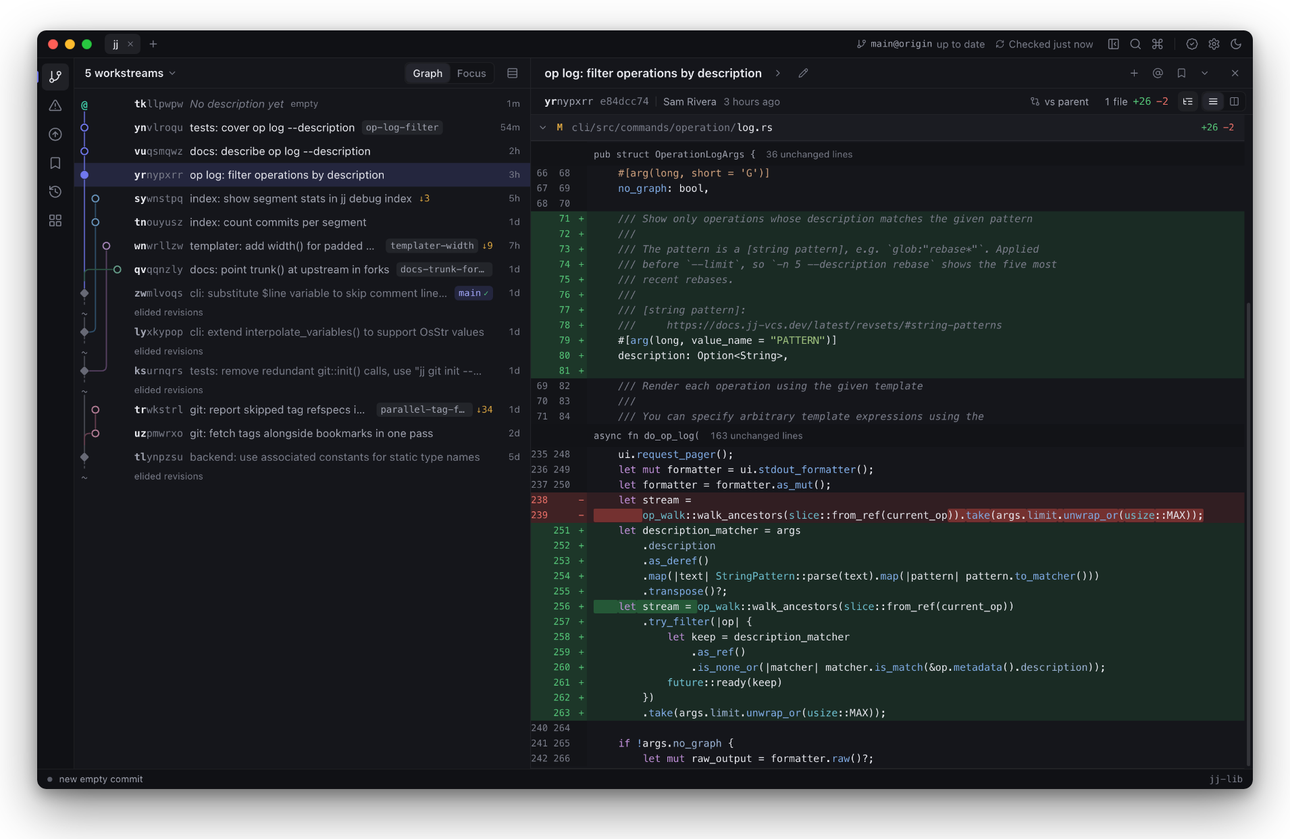
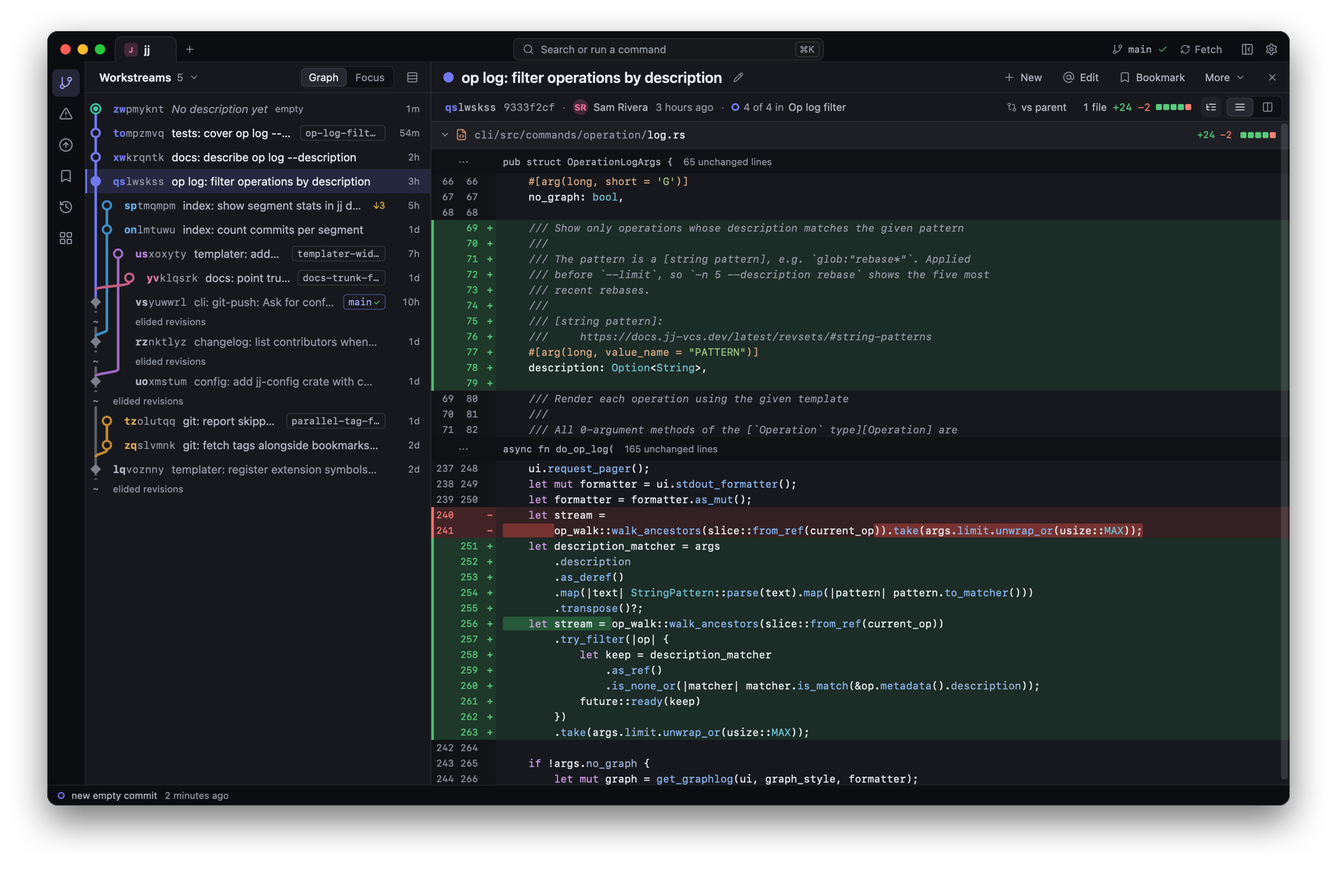
Jiji 0.5.0

diff --git a/docs/parity-tracker.md b/docs/parity-tracker.md
@@ -10,10 +10,10 @@ second added items 29–34, T4 and E7. Item 35 was seen during the audit and cam
 
 | Group | Done | Total |
 | --- | --- | --- |
-| Release blockers (1–6) | 3 | 6 |
+| Release blockers (1–6) | 4 | 6 |
 | Other gaps (7–38) | 23 | 32 |
 | Decisions (D1–D4) | 1 | 4 |
-| Tooling and tests (T1–T4) | 3 | 4 |
+| Tooling and tests (T1–T4) | 4 | 4 |
 | Sign-off checks (E1–E7) | 0 | 7 |
 
 An item is done when its status is `verified` or `accepted`.
@@ -57,7 +57,7 @@ start elsewhere. "Old:" paths are in the last Tauri tree, under
 | 3 | verified, `xwouqzmu`: tests `host::update::tests::an_untouched_staged_update_installs` and `a_staged_update_changed_after_verifying_never_installs` (throwaway key, scratch bundle). Restart reads the archive back, verifies it again and unpacks those bytes through tar's stdin. A changed archive is deleted, the installed app stays, the user reads "the downloaded update was changed or removed after it was verified. Your installed Jiji is unchanged, and the update will download again", and a fresh download starts. A signed bundle restarting through the real feed stays with E1 | **The updater can install bytes it did not verify.** The download is verified, written to disk, and reopened by path at Restart with no second check. Tauri held the verified bytes in memory until install. | Changing the staged archive between download and Restart leaves the installed app intact and tells the user why. An untouched signed archive still installs. | `host/update.rs` `download`, `install_and_relaunch` | code |
 | 4 | fixed, `ysykovvp`: tests `ui::focus::tests::tab_walks_the_controls_and_space_and_return_press_the_one_it_is_on`, `shell::tests::settings_open_change_and_close_from_the_keyboard` (Shift-Tab from the section back through the rail to Settings, Space opens it, Tab enters at Appearance, Space picks Light, Tab and Shift-Tab come round inside the panel, Escape closes it and the keys are back on Settings), `shell::tests::a_click_presses_a_control_without_taking_the_keys`, `ui::focus::tests::a_row_tab_reaches_below_the_fold_scrolls_into_view`, `views::workbench::tests::the_file_tree_is_one_stop_its_keys_travel_and_fold`, `an_annotate_origin_is_followed_from_the_keyboard`, `a_split_is_made_from_the_keyboard_alone` (More by Space, its arrows to Split, a file checked by Space, Return on Split: the split runs and the keys are back on More), `typing_in_a_field_types_and_tab_leaves_it`; each fails with its fix removed. Every control in `ui/` and every bespoke one in the views is a stop (`ui::Tabbable`): Tab and Shift-Tab walk the window in paint order (the command field now precedes the bar's controls, so the bar reads left to right), Space and Return press on the release (GPUI's keyboard click), and a click leaves the keys where they were, as AppKit's buttons do, so the graph keeps j and k. The ring is two pixels of accent inside the control's edge (an inset shadow: nothing moves), for keyboard focus only; a filled button rings in its ink with the accent's halo outside, a lone checkbox takes the halo. A list is one stop with arrows: the graph (selected row ringed), the file tree (cursor ringed), annotate's origins (↑/↓ from run to run, Return or Space follows; mouse-only before, and better than the old one tab stop per run in a windowed list), a tray's destinations (Compare's too, which no key could pick). Popovers and menus (Settings, registration, the view menu, More, Files, Publish's connection and More) take focus, hold Tab while open (menus answer ↑/↓), close on Escape, and give focus back to the trigger, or to wherever it was when a click opened them; trays, the palette and history search give it back too, and a control that vanishes (a deleted row, a closed panel) hands it to the nearest thing still on screen. Return on a control inside a tray presses that control (it confirmed the tray). Hover-only controls (bookmark, operation and inspector row actions, a tab's close, a recent repo's remove) show while Tab is among them; the bookmark ones were `invisible`, which GPUI never paints, so no key reached them. A row of stops in a scroller comes into view as Tab reaches it (`ui::focus::FocusRow`; GPUI scrolls nothing to focus). The diff is a stop of its own (Space, the page keys, ⌘C), ringed around its edge. A scripted `key` now sends the release a keyboard sends. Looked at: headless walks of the whole window, the order read from the accessibility dump, and shots of the ring on a button, a segment, a tab, a graph row, a tree row, a divider, the diff, a checklist row and a primary button, in paper and midnight. Remains for the owner: Full Keyboard Access and VoiceOver in the real app (E5) | **Keyboard-only use of ordinary controls.** Buttons, segmented controls and checkboxes answer the pointer only. There is no Tab or Shift-Tab path through them, no focus ring, and no Space or Return activation. | With Full Keyboard Access on and the pointer parked: open Settings and change a setting, enter the file tree, follow an annotate origin, and confirm a split. Order in both directions, visible focus, activation, Escape and where focus returns are all right. | `ui/button.rs`. Old: `ui/Button.svelte`, `diff/FileTree.svelte`, `diff/AnnotatePane.svelte` | code |
 | 5 | fixed, `ysykovvp`: tests `ui::button::tests::controls_tell_assistive_technology_what_they_are`, `ui::input::tests::a_field_tells_its_name_value_and_placeholder_and_keeps_a_key_to_itself`, `ui::a11y::tests::a_tooltip_names_its_control_apart_from_its_shortcut`, `views::workbench::graph::tests::a_row_says_what_a_glance_at_it_takes_in`. GPUI's test windows never build an accessibility tree, so the Done-when cases were read off the real one: a headless run's new `a11y=` step turns accessibility on the way VoiceOver's first question does and writes the tree GPUI hands AccessKit. Mock backend: two repositories open give the tab list "Open repositories" with tabs "mock" and "mock2", the second selected, each holding "Close …"; folding `src/lib/styles` from the keys turns its tree item (level 2, the active descendant while the tree has focus) from expanded to collapsed and back, its file reappearing at level 3; a history search for "viewport" gives the dialog "Search history", its field with value and placeholder, the list box "Matching changes" with three options and the first selected, the polite status "3 matching changes · searched 11 changes", and the highlight spoken as "…, 1 of 3", then "2 of 3" after ↓; New failing once `.jj` was hidden gives an assertive alert carrying jj's message. Each `role=` and `aria-` of the old components has its counterpart: dialogs and alert dialogs (palette and search modal, Settings, registration, view menu, every tray, operation confirms, the GitHub connection); tab lists (the repositories; the rail as a vertical tab list whose section is selected, as AccessKit's macOS adapter maps no aria-current); the tree with levels, expanded and selected; list boxes and options with selected (palette, search, graph rows (multiselectable) named by title, short id, marks and bookmarks, tray destinations, comparison presets, stacks); groups for a bookmark's row and an operation's, named for what their buttons act on; menus and items (More, Files, Publish's More, the context menu, with disabled and has-popup); a radio group for every segmented control and choice list (theme, palettes, editors, terminals, lenses); checkboxes, mixed for a partly checked file; splitters with value, limits and orientation; pressed and expanded states; icon-only buttons named by their tooltips, shortcuts apart; fields with name, value and placeholder (a key never read out); headings for the page and change titles; live regions: an alert for every inline error and the status line's, a status for search counts, the find bar's position and a mutation just run. Where focus stays in a field (palette, search) or the list never takes it (the context menu, which keeps a field's selection under it), the highlight is a polite live region: GPUI honours an active descendant only inside the focused element. Not exposed: the diff's lines and headers (one painted document, named with its file count) and the graph's rails. Remains for the owner: VoiceOver itself (E5), what it says and that it reads the live regions | **Screen readers.** The old interface named its dialogs, tabs, trees and list options, exposed selected and expanded states, and announced search results and errors. The GPUI views set no accessibility roles, so nothing is exposed. | VoiceOver names both repository tabs and says which is selected, announces a directory expanding, reads search results, and speaks a failed action. Name, role and state are right at each step. | `shell/topbar.rs` (tabs), `views/search.rs`. Old: `shell/TabBar.svelte`, `search/SearchOverlay.svelte` | code |
-| 6 | open, for the owner: the floor is now macOS 12.0 for both slices (`ynqstzor`). This GPUI reads Low Power Mode as the app starts (`isLowPowerModeEnabled`, with `NSProcessInfoPowerStateDidChangeNotification` bound at launch, not weakly: both macOS 12.0 in Apple's headers) and links UniformTypeIdentifiers (macOS 11.0). Nothing else turned up: every symbol the binary binds is older, a scan of the SDK names Apple marks macOS 12 or later found only calls GPUI guards, and what the app runs (`tar`, `ditto`, `open`, `osascript`, the Keychain) is far older. Not tried on a Mac running 11. The old 11.0 would have let a Mac on 11 open a build that cannot start there. `Info.plist` says 12.0, `scripts/bundle.sh` builds both slices for what the plist says (`MACOSX_DEPLOYMENT_TARGET`), and the workflow checks each slice's `LC_BUILD_VERSION` against it; a local bundle's arm64 slice reads `minos 12.0`, the Intel slice's is for E7 (no x86_64 target here). Stranded through the shared feed: Intel Macs that cannot run 12 (10.13–11), and any Mac still on 11. Their 0.4.1 installs the GPUI build, the system then refuses to open it, and no working Jiji is left. Options: (a) ship and say so in the notes (reinstall 0.4.1 from Releases); (b) first a last Tauri release whose updater skips a release the system cannot run (the manifest naming the floor), left up long enough to reach most installs; (c) a new feed URL for GPUI builds, the old `latest.json` left on that bridge release; (d) a GPUI patch that looks the notification up at run time and asks before reading Low Power Mode brings it to 11.0 (worth offering upstream); below 11 is not realistic. Whichever: the GPUI updater could also read the floor from the manifest and skip a release it cannot run, so a later bump strands no one | **Intel Macs on macOS 10.13–10.15.** The 0.4.1 bundle declares 10.13; the GPUI bundle declares 11.0 for everyone. Through the shared update feed, an Intel user on an older system can be offered an app the system refuses to launch. | The floor is decided and written down. Either the bundle and both slices run on the old floor, or a client below the new floor is never offered the update and keeps a working app. Checked on the oldest supported Intel system through the real feed. | `crates/jiji-desktop/resources/Info.plist`, `.github/workflows/release-macos.yml` (manifest lists both architectures) | code |
+| 6 | accepted (owner, 2026-11-25): Jiji supports the current macOS release and the one before it, so older systems are out of scope. The bundle keeps declaring 12.0, the least this GPUI can start on, so an existing install on an in-between system that auto-updates still gets an app that opens. Background: the floor is now macOS 12.0 for both slices (`ynqstzor`). This GPUI reads Low Power Mode as the app starts (`isLowPowerModeEnabled`, with `NSProcessInfoPowerStateDidChangeNotification` bound at launch, not weakly: both macOS 12.0 in Apple's headers) and links UniformTypeIdentifiers (macOS 11.0). Nothing else turned up: every symbol the binary binds is older, a scan of the SDK names Apple marks macOS 12 or later found only calls GPUI guards, and what the app runs (`tar`, `ditto`, `open`, `osascript`, the Keychain) is far older. Not tried on a Mac running 11. The old 11.0 would have let a Mac on 11 open a build that cannot start there. `Info.plist` says 12.0, `scripts/bundle.sh` builds both slices for what the plist says (`MACOSX_DEPLOYMENT_TARGET`), and the workflow checks each slice's `LC_BUILD_VERSION` against it; a local universal bundle reads `minos 12.0` for both slices (checked 2026-11-26), and both run their command line here, the Intel one under Rosetta. Stranded through the shared feed: Intel Macs that cannot run 12 (10.13–11), and any Mac still on 11. Their 0.4.1 installs the GPUI build, the system then refuses to open it, and no working Jiji is left. Options: (a) ship and say so in the notes (reinstall 0.4.1 from Releases); (b) first a last Tauri release whose updater skips a release the system cannot run (the manifest naming the floor), left up long enough to reach most installs; (c) a new feed URL for GPUI builds, the old `latest.json` left on that bridge release; (d) a GPUI patch that looks the notification up at run time and asks before reading Low Power Mode brings it to 11.0 (worth offering upstream); below 11 is not realistic. Whichever: the GPUI updater could also read the floor from the manifest and skip a release it cannot run, so a later bump strands no one | **Intel Macs on macOS 10.13–10.15.** The 0.4.1 bundle declares 10.13; the GPUI bundle declares 11.0 for everyone. Through the shared update feed, an Intel user on an older system can be offered an app the system refuses to launch. | The floor is decided and written down. Either the bundle and both slices run on the old floor, or a client below the new floor is never offered the update and keeps a working app. Checked on the oldest supported Intel system through the real feed. | `crates/jiji-desktop/resources/Info.plist`, `.github/workflows/release-macos.yml` (manifest lists both architectures) | code |
 
 ### What item 2 must carry over
 
@@ -153,7 +153,7 @@ reason, or to `open` and move the row into the gaps.
 | # | Status | What is lost | Done when |
 | --- | --- | --- | --- |
 | T1 | verified, `mzwxssuu`: the host takes its forge as it takes its backend (`host::forge::Forge`, with `ForgeClient` for what it asks once it holds a token): GitHub with the user's token in the app, `Offline` for `JIJI_OFFLINE=1`, and in tests `testing::forge::Fixture`, GitHub as a test captured it — pull requests with their review, checks and draft state, what each one's merge button says, the repository's merge methods, auto-merge and merge queue, failed workflow runs and stack comments — which records every write it is asked for. Every Publish, review, land, ship and auto-land call goes through that one seam, and the real planning and execution engines run over the mock repository and the captured state: plans are derived, not canned (the old harness took a captured LandPlan), so a test sees the plan a user would. Tests in `views::publish::tests`: `the_current_stack_opens_on_its_land_plan_and_local_work_on_its_publish_plan` (stack selection), `a_stack_that_differs_from_github_waits_to_be_published`, `the_merge_method_bypass_and_drafts_shape_the_land_plan` (a method the repo refuses blocks, failing checks block until bypass, a draft is marked ready just before it merges), `a_plan_that_answers_late_never_lands_on_the_stack_chosen_since`, `failed_ci_is_sent_back_to_work_and_the_badges_follow` (re-run, then the refresh reads the checks running), `a_pull_request_is_fetched_for_review_by_its_row_or_its_number`, `publishing_opens_the_pull_requests_the_plan_named_and_keeps_the_result`, `landing_merges_on_github_then_tidies_the_stack_here` (merge, rebase, retarget, cleanup on both sides), `shipping_moves_trunk_to_the_stack_and_pushes_it`, `auto_land_starts_stops_resumes_and_is_dismissed` (the job hands #41 to auto-merge, stops, and its dismissed record leaves the disk), `an_interrupted_job_resumes_with_its_saved_rules`, `the_pull_requests_page_leaves_the_stack_and_its_plan_where_they_were`; the late-response test fails with the plan's sequence guard removed. The mock backend now models jj's deletion of a tracked bookmark (its remote counterpart stays, remote-only, until a push carries the deletion out), without which landing's cleanup failed on it. `dump_diff` is not brought back: `cargo run -p jiji-core --example snapshot -- <repo> <change> --diff` prints a change's diff | **Offline interface fixtures.** `scripts/visual-harness` replayed captured repositories and diffs, seeded pull requests and landing plans, and chosen error states. `dump_diff` printed a real change's refined diff. GPUI has headless screenshots, scripted input and a mock repository, but its tests see no forge and nothing replays captured GitHub data. | The outcomes the harness exercised have GPUI tests or scripted fixtures: stack selection, plan options, late responses, CI, auto-land. |
-| T2 | fixed, `mzwxssuu`: `scripts/release-preflight [tag]`, documented in `RELEASING.md`: the tag against the workspace version and whether it already tags another commit; the version's changelog section; the update feed against the repository `origin` names; both Rust targets; the bundle built as the workflow builds it (universal, or this Mac's slice with a blocker when a target is missing), its `Info.plist` linted and naming the version, each slice's floor against the bundle's, `codesign --verify --deep --strict`; then, with `gh` signed in, every secret name the workflow uses (read from the workflow itself, so the list cannot drift; a missing `TAURI_SIGNING_PRIVATE_KEY_PASSWORD` warns, since an updater key may have none) and the repository's visibility. It publishes, tags and changes nothing. Run here with a scratch target: it caught this checkout's two real mistakes (0.4.1 already tags another commit; no `x86_64-apple-darwin` target) and built, linted and verified the arm64 slice; the `gh` paths were run against stand-in `gh` binaries (absent, signed out, signed in with one secret missing), never against GitHub. Not checked: a local Developer ID identity, since the workflow imports its certificate from `APPLE_CERTIFICATE` and the secret check covers that. Remains: a run signed in to `gh` against the real repository, and the universal build on a Mac with both targets (with E7) | **Local release preflight.** `scripts/release-preflight` checked the feed, repository visibility, the names of the signing secrets and a local signing identity before a tag was pushed. | A release mistake of those kinds is caught before the workflow runs, or the check is marked `accepted` as covered by the workflow. |
+| T2 | verified 2026-11-26 before tagging `app-v0.5.0`: run signed in to `gh` against the real repository on a Mac with both Rust targets, it built the universal bundle and passed every check (both slices `minos 12.0`, all seven secrets set, the repository public). Built in `mzwxssuu`: `scripts/release-preflight [tag]`, documented in `RELEASING.md`: the tag against the workspace version and whether it already tags another commit; the version's changelog section; the update feed against the repository `origin` names; both Rust targets; the bundle built as the workflow builds it (universal, or this Mac's slice with a blocker when a target is missing), its `Info.plist` linted and naming the version, each slice's floor against the bundle's, `codesign --verify --deep --strict`; then, with `gh` signed in, every secret name the workflow uses (read from the workflow itself, so the list cannot drift; a missing `TAURI_SIGNING_PRIVATE_KEY_PASSWORD` warns, since an updater key may have none) and the repository's visibility. It publishes, tags and changes nothing. Run here with a scratch target: it caught this checkout's two real mistakes (0.4.1 already tags another commit; no `x86_64-apple-darwin` target) and built, linted and verified the arm64 slice; the `gh` paths were run against stand-in `gh` binaries (absent, signed out, signed in with one secret missing), never against GitHub. Not checked: a local Developer ID identity, since the workflow imports its certificate from `APPLE_CERTIFICATE` and the secret check covers that. Remains: a run signed in to `gh` against the real repository, and the universal build on a Mac with both targets (with E7) | **Local release preflight.** `scripts/release-preflight` checked the feed, repository visibility, the names of the signing secrets and a local signing identity before a tag was pushed. | A release mistake of those kinds is caught before the workflow runs, or the check is marked `accepted` as covered by the workflow. |
 | T3 | accepted: the generated TypeScript bindings, `bun run bindings`, the `ts-rs` derives and `TextPlan::has_write()` stay removed — nothing has consumed them since the web frontend went. `host/cli.rs` now sets Unix permissions only under `cfg(unix)` (`mzwxssuu`). Checked by reading, not by compiling: the crate's other non-macOS paths are paired `cfg` blocks (`appkit.rs`, `diff/picture.rs`'s ImageIO, `host/integrations.rs`'s terminals and executables, `upgrade.rs`'s displays) or runtime `cfg!` checks over code that builds everywhere; the `headless` feature's accessibility wake is macOS-only, as that dev tool is. A cross check was not run: `x86_64-pc-windows-msvc` is installed, but the C dependencies (the tree-sitter grammars, `ring`) need a Windows toolchain this Mac lacks. The Windows terminal fallback stays gone (releases are macOS-only); off macOS, `open_in_terminal` tries `x-terminal-emulator` | **Source compatibility.** Removed with the web frontend: `bun run bindings` and the generated TypeScript types, the `ts-rs` derives, and `jiji_forge::reconcile::TextPlan::has_write()` (it had no caller). The Windows terminal fallback is gone, and `host/cli.rs` imports Unix file permissions unconditionally. Releases were macOS-only. | Marked `accepted`, or the pieces someone relies on are named and restored. |
 | T4 | verified, `mzwxssuu`: every old test file was the checklist, each test traced to the Rust it pinned. Of 416 old tests (409 frontend in 39 files, 7 shell): 312 ported, 85 already pinned by a Rust test, 19 not applicable (the webview's SVG rail morphing, DOM windowing and scroll observation, span merging, a helper 0.4.1 never called); the app crate went from 217 to 450 tests. By area: graph, selection and drag, 78: 62 ported, 9 pinned, 7 not applicable; diff, find, split, tree and evolution, 120: 85, 31, 4; Publish, 61: 55, 5, 1 (on T1's forge double). Porting found items 36, 37 and 38, each fixed with its test failing without the fix; the model's update checks went through a new `host::update::Updates` seam so `state/update.test.ts` could be ported. Deliberate differences pinned as they are: a read-only field's menu offers only Copy and Select All; a diff's menu adds Reveal in Finder and Copy Absolute Path, and Copy Hunk carries the patch; `Cargo.lock` highlights as TOML; graph rows build one either side, with no per-side margins or velocity-led overscan (item 23). Not restored, for the owner: the old plan rows' tints (warn on cleanup and sweep steps, ok on the ship push) | **Test coverage.** 409 frontend tests and 7 shell tests became 127 tests in the app crate. By area: graph, selection and drag 78 → 18; diff, find, split, tree and evolution 120 → 26; Publish 61 → 12. | The behaviours the old suites pinned are pinned again, starting with those three areas. The old test files are the checklist. |
 

diff --git a/CHANGELOG.md b/CHANGELOG.md
@@ -1,5 +1,49 @@
 # Changelog
 
+## 0.5.0 - 2026-11-26
+
+Jiji is now a native app. The interface was rewritten from a web view to
+GPUI, the toolkit behind the Zed editor, so the graph and the diffs are
+drawn on the GPU by the same Rust program that reads your repository with
+jj-lib. It is the same workbench, with the same layout, shortcuts and
+`jiji` command line. Your open tabs, preferences, saved views, window
+placement and license carry over the first time it opens.
+
+- A refreshed look. Change ids in the graph take their workstream's lane
+  color. The change header leads with a larger title, then the author,
+  where the change sits in its stack ("4 of 4 in Op log filter") and a
+  five-block diffstat. Added and removed runs carry a bar down the left
+  edge of the diff.
+- The title bar has one command field (⌘K) in place of separate buttons,
+  with trunk's state and Fetch beside it. History search stays on ⌘⇧F,
+  themes and the license moved into Settings, and a tab's close button
+  shows on hover.
+- A comparison against a pinned change or a range is read-only. File, hunk
+  and line actions are offered on a change's own diff, where they cannot
+  land on the wrong change.
+- Updates are checked twice: after the download, and again at "Restart to
+  update" on the exact bytes that get installed. If the swap fails, the
+  app you had is put back. An app in a folder you cannot write to asks for
+  an administrator password instead of failing.
+- Jiji keeps a log at `~/Library/Logs/com.lauf.jiji/Jiji.log`. If it quits
+  unexpectedly, the next launch restores your tabs, says so, and offers the
+  log.
+- Requires macOS 12 or later, and is tested on the current macOS release
+  and the one before it. 0.4.1 ran on older systems: a Mac on macOS 11 or
+  earlier cannot open this release and should decline the update. 0.4.1
+  stays on the Releases page.
+- Building from source is `cargo build`. Node, Bun and the web toolchain
+  are gone, and the repository is one Cargo workspace.
+
+Known gaps in this release:
+
+- An error while drawing a view quits the app, where 0.4.1 showed the
+  error inside that view. Your tabs come back on the next launch; a
+  description you were typing at that moment does not.
+- Keyboard focus for buttons and VoiceOver labels were rebuilt for the new
+  toolkit and have had less use than the rest. If something that worked in
+  0.4.1 does not work here, please open an issue.
+
 ## 0.4.1 - 2026-10-06
 
 A cleaner Publish section, in the same flat style as the workbench.

diff --git a/RELEASING.md b/RELEASING.md
@@ -1,6 +1,6 @@
 # Releasing Jiji for macOS
 
-Jiji ships outside the Mac App Store through GitHub Releases. Pushing an `app-v*` tag starts `.github/workflows/release-macos.yml`, which builds a universal `Jiji.app`, signs and notarizes it, and publishes:
+Jiji ships outside the Mac App Store through GitHub Releases. Pushing an `app-v*` tag starts `.github/workflows/release-macos.yml`, which builds a universal `Jiji.app`, signs and notarizes it, and drafts a release with:
 
 | Asset | |
 |---|---|
@@ -27,6 +27,17 @@ git push origin HEAD app-v0.5.0
 ```
 
 The workflow refuses a tag that does not match the workspace version.
+
+4. The workflow leaves the release as a draft, so nothing reaches installed copies or the download link yet. Open the build it made, then publish:
+
+```bash
+gh release download app-v0.5.0 --pattern '*.dmg' --dir /tmp/jiji-0.5.0
+open /tmp/jiji-0.5.0/Jiji_darwin_universal.dmg
+
+gh release edit app-v0.5.0 --draft=false --latest
+```
+
+Publishing is the moment every install is offered the update. A draft that turns out wrong costs nothing: delete it (`gh release delete app-v0.5.0 --cleanup-tag`), fix, and tag again.
 
 ## Preflight
 

diff --git a/README.md b/README.md
@@ -13,7 +13,8 @@ Jiji puts jj's model on screen: the change graph, the diff of whatever you
 select, and the operation log that makes every rewrite undoable. It is built
 on jj-lib, so it reads your repo and your `jj` config (revset aliases,
 `immutable_heads()`, merge tools) exactly the way the CLI does, and it keeps
-up with whatever you do in a terminal alongside it.
+up with whatever you do in a terminal alongside it. It is a native app: one
+Rust program, drawn with [GPUI](https://www.gpui.rs), with no web view.
 
 ## What it does
 
@@ -45,6 +46,8 @@ Download the DMG above. Jiji updates itself: a new version downloads in the
 background and waits for you to click "Restart to update".
 
 - macOS only for now. Linux and Windows builds aren't available yet.
+- Supported on the current macOS release and the one before it. Older
+  systems back to macOS 12 can open it, untested.
 - `git` must be on your `PATH` for fetch and push, as with `jj` itself.
 - The `jj` CLI is optional. Jiji embeds jj-lib 0.45, so repositories and
   config stay compatible with `jj` 0.45.
